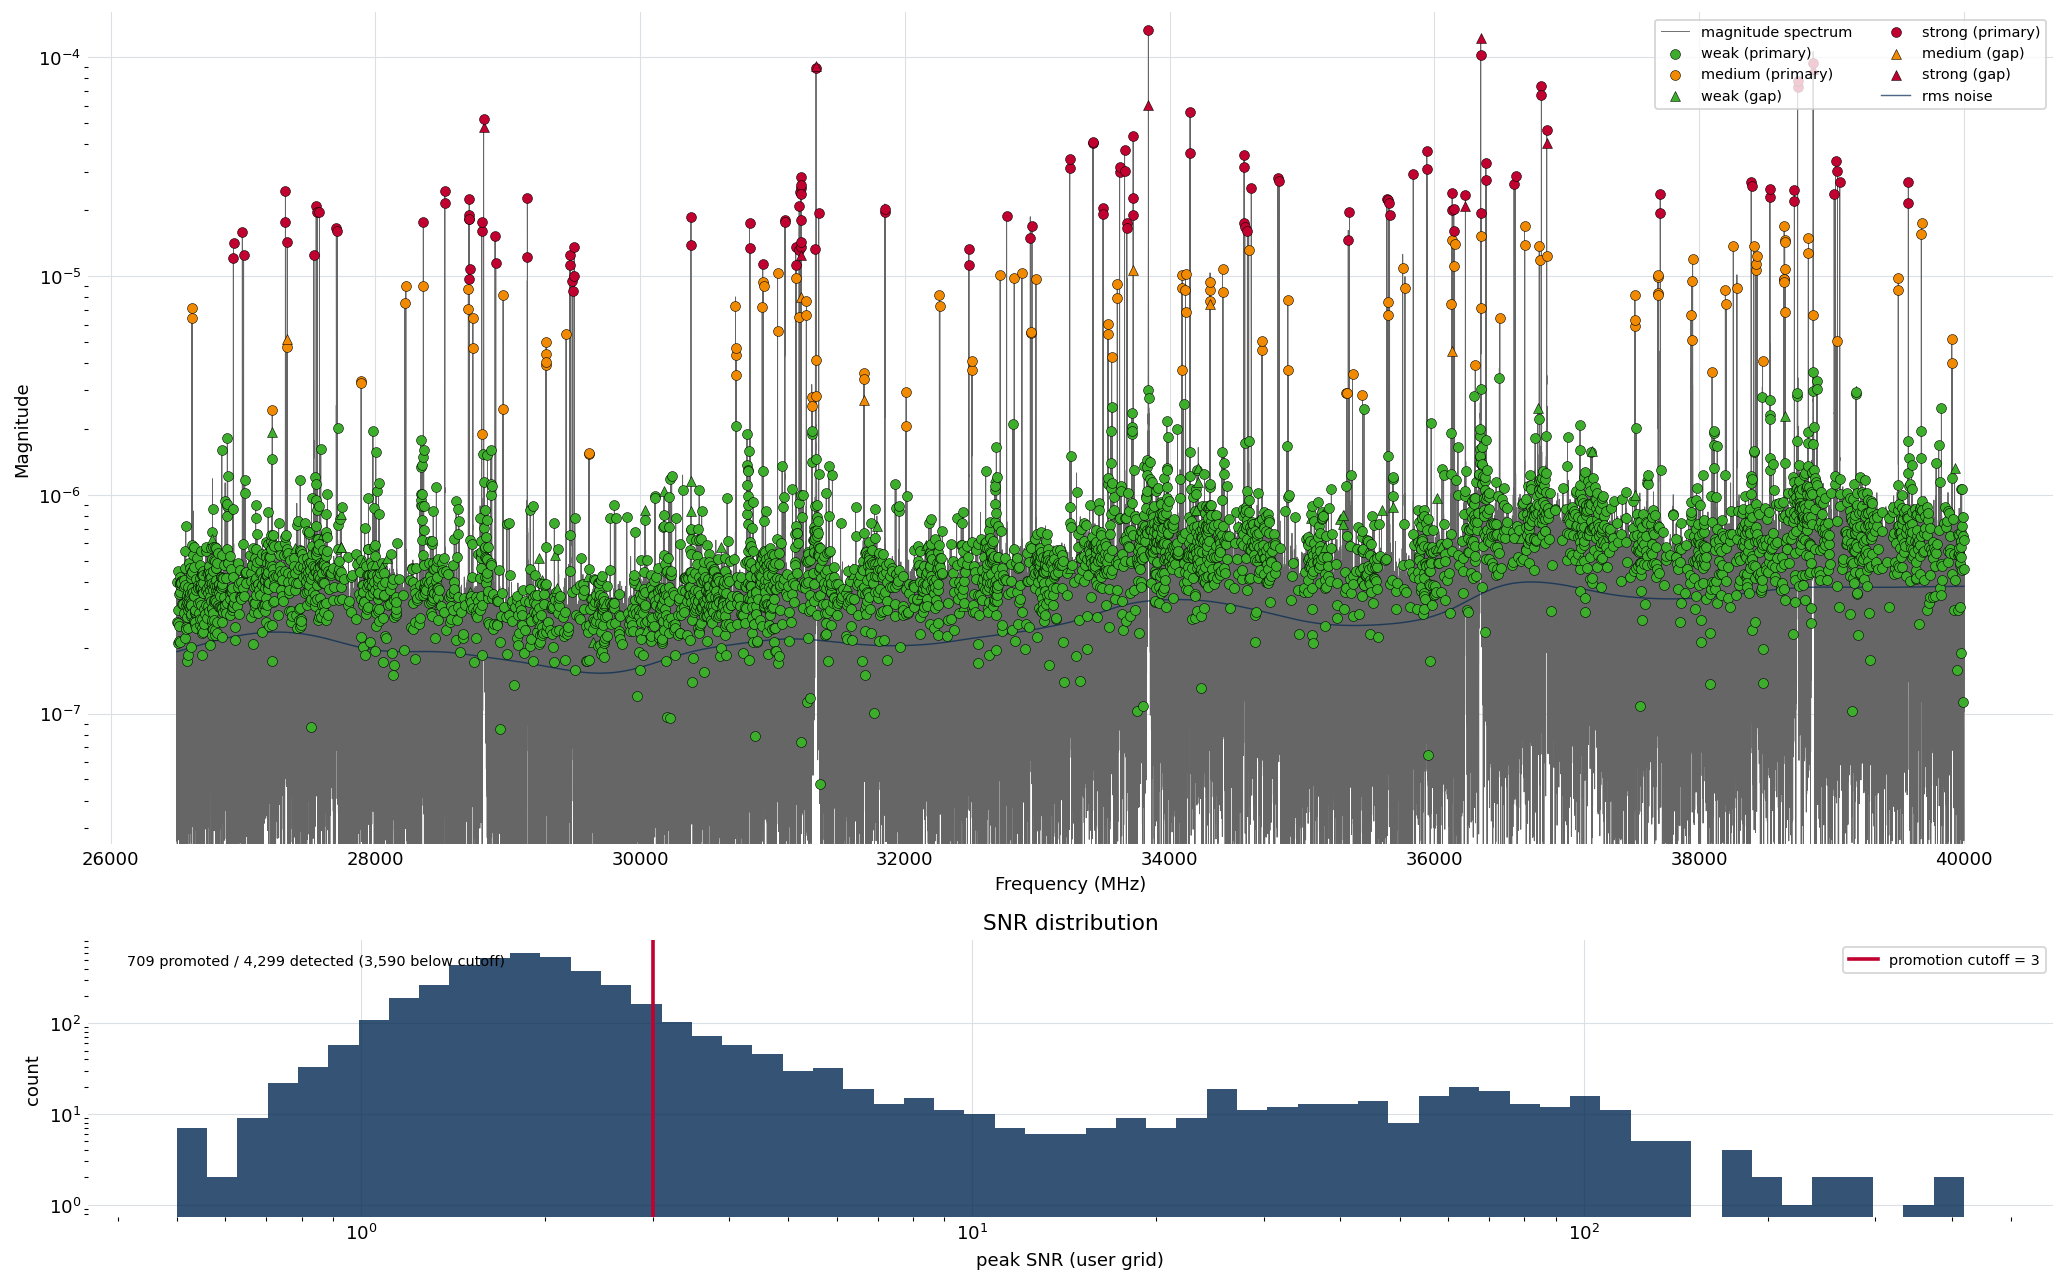
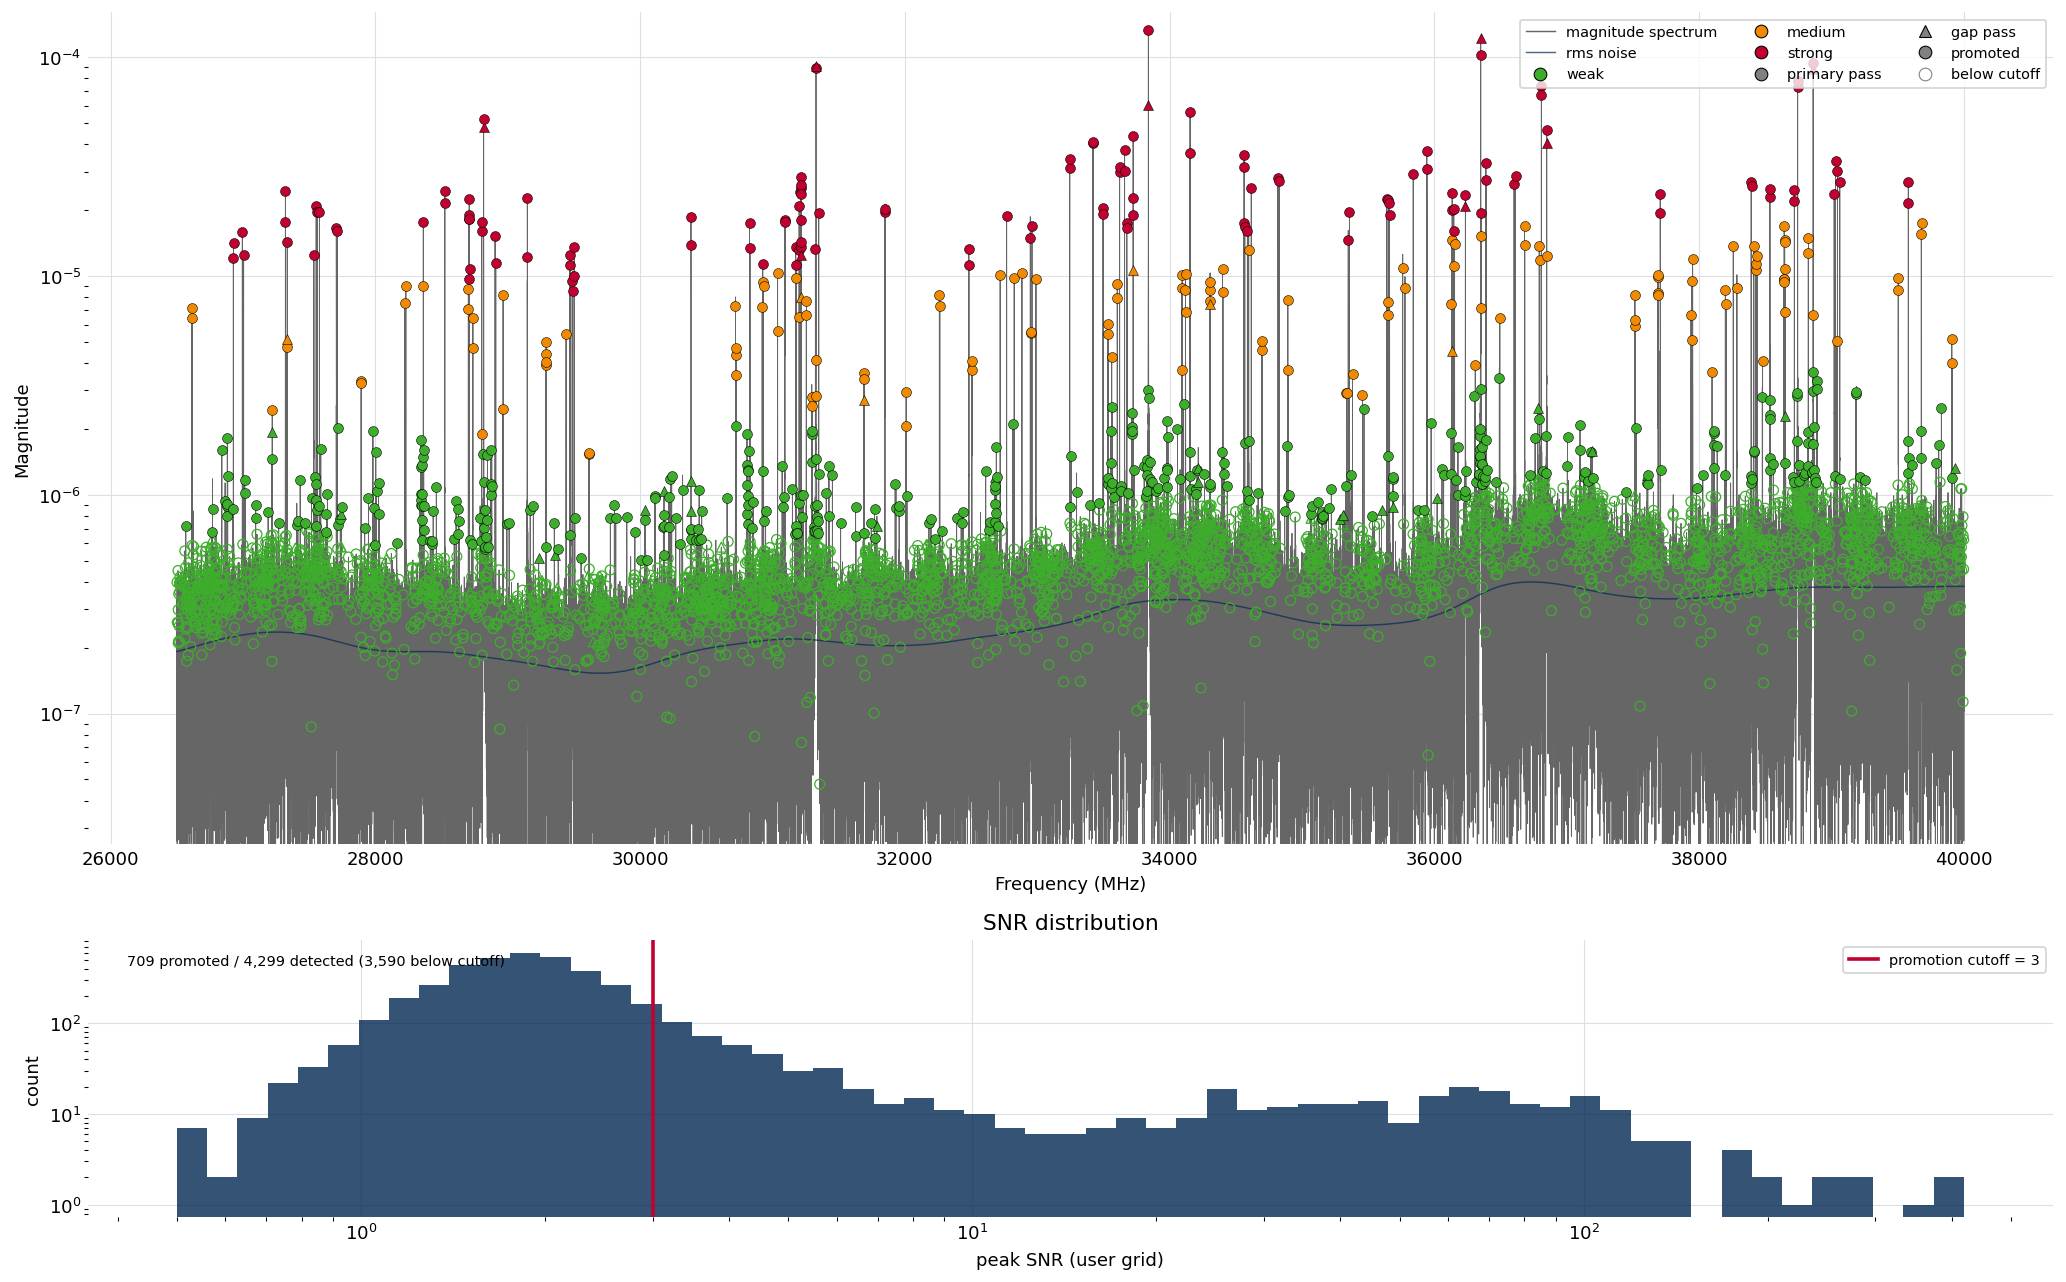
Encode promotion in the peak overlay and drop the dead promoted-only switch
Draw promoted peaks filled and below-cutoff candidates open in the detection
overlay, so the curation split reads off the plot, and remove the unreachable
visualize_peaks_impl promoted_only parameter the new encoding supersedes.

Reword the Stage 3 page to describe the matched filter timelessly rather than as
a replacement for an earlier pass, and to credit the live consumer of the strong
tier (Stage 4 leakage grouping and fixed-contributor attachment) rather than the
unused window-difficulty label. Log the difficulty-label finding for the Stage 4
review and regenerate the figure.

Claude-Session: https://claude.ai/code/session_012itsht2HzvW34wXcnMVEm4

Changed region(s): [[0.062, 0.3744, 0.9603, 0.5304], [0.7435, 0.0, 0.9913, 0.0936]]

diff --git a/src/ftmwpipeline/visualization/peak_visualization.py b/src/ftmwpipeline/visualization/peak_visualization.py
@@ -11,6 +11,7 @@ from typing import List, Optional, Tuple
 
 import matplotlib.pyplot as plt
 import numpy as np
+from matplotlib.lines import Line2D
 
 from ..core.data_structures import Peak, PeakClassification
 from .report_style import (
@@ -129,7 +130,10 @@ def plot_peak_detection(
         zorder=1,
     )
 
-    legended = set()
+    # Encoding: color = SNR tier, marker shape = detection pass, fill =
+    # promotion. A promoted peak is a filled marker; one below the promotion
+    # cutoff is an open marker, so the curation split reads off the overlay
+    # itself.
     for p in peaks:
         cls = (
             p.classification
@@ -139,23 +143,16 @@ def plot_peak_detection(
         color = _CLASS_COLOR.get(cls, "0.5")
         is_gap = p.properties.get("detection_pass") == "gap"
         marker = "^" if is_gap else "o"
-        key = (cls, is_gap)
-        label = None
-        if key not in legended:
-            legended.add(key)
-            cls_name = cls.value if cls is not None else "unclassified"
-            pass_name = "gap" if is_gap else "primary"
-            label = f"{cls_name} ({pass_name})"
+        promoted = bool(p.properties.get("promoted"))
         ax.scatter(
             p.frequency,
             p.intensity,
             s=30,
-            color=color,
             marker=marker,
-            edgecolors="black",
-            linewidths=0.3,
-            zorder=5,
-            label=label,
+            facecolors=color if promoted else "none",
+            edgecolors="black" if promoted else color,
+            linewidths=0.3 if promoted else 0.7,
+            zorder=5 if promoted else 4,
         )
 
     ax.plot(
@@ -183,7 +180,32 @@ def plot_peak_detection(
     resolved_title = resolve_title(title, "Stage 3 Peak Detection")
     if resolved_title:
         ax.set_title(resolved_title)
-    ax.legend(loc="upper right", fontsize=8, ncol=2)
+
+    def _swatch(marker: str, face: str, edge: str, label: str) -> Line2D:
+        return Line2D(
+            [0],
+            [0],
+            marker=marker,
+            linestyle="none",
+            markerfacecolor=face,
+            markeredgecolor=edge,
+            markeredgewidth=0.6,
+            markersize=7,
+            label=label,
+        )
+
+    handles = [
+        Line2D([0], [0], color="0.4", lw=0.8, label="magnitude spectrum"),
+        Line2D([0], [0], color=AGGIE_BLUE, lw=0.8, alpha=0.7, label="rms noise"),
+        _swatch("o", QUAD, "black", "weak"),
+        _swatch("o", POPPY, "black", "medium"),
+        _swatch("o", DOUBLE_DECKER, "black", "strong"),
+        _swatch("o", "0.5", "black", "primary pass"),
+        _swatch("^", "0.5", "black", "gap pass"),
+        _swatch("o", "0.5", "black", "promoted"),
+        _swatch("o", "none", "0.5", "below cutoff"),
+    ]
+    ax.legend(handles=handles, loc="upper right", fontsize=8, ncol=3)
     apply_bare_style(ax)
     if ax_hist is not None:
         _plot_snr_histogram(ax_hist, peaks, promotion_min_snr)

diff --git a/src/ftmwpipeline/_internal/stage3_impl.py b/src/ftmwpipeline/_internal/stage3_impl.py
@@ -828,23 +828,20 @@ def visualize_peaks_impl(
     y_max_factor: Optional[float] = None,
     interactive: bool = True,
     show_snr_histogram: bool = False,
-    promoted_only: bool = False,
 ) -> Any:
     """Overlay the persisted classified peaks on the canonical active FT.
 
     Peaks are scored and stored on the active FT (frequency + re-measured
     amplitude), so the overlay is the active FT with the active-FT authority
     noise -- exactly the surface the peaks were scored on. Requires Stage 3
-    completed. With ``show_snr_histogram`` a second panel shows the active-grid
-    SNR distribution with the promotion cutoff marked (curation view).
-    ``promoted_only`` restricts the overlay to the promoted peaks (the ones that
-    survive into Stage 4+), dropping the sub-threshold candidates.
+    completed. Promoted peaks are drawn filled and sub-threshold candidates
+    open, so the promotion split reads off the overlay. With
+    ``show_snr_histogram`` a second panel shows the active-grid SNR distribution
+    with the promotion cutoff marked (curation view).
     """
     loaded = load_peaks_impl(file_path)
     peaks: List[Peak] = loaded["peaks"]
     promotion_min_snr = loaded.get("promotion_min_snr")
-    if promoted_only:
-        peaks = [p for p in peaks if p.properties.get("promoted")]
 
     stage1 = compute_ft_impl(file_path=file_path)
     trim_range = stage1.get("trim_range")

diff --git a/dev-docs/planning/user-docs/README.md b/dev-docs/planning/user-docs/README.md
@@ -116,12 +116,14 @@ before any code change (per the per-stage gate).
 - **Stale `README.md` status section.** The root `README.md` states Stages 3–5
   are "not yet implemented"; all stages ship. Update during the repository
   cleanup pass.
-- **`visualize_peaks_impl(promoted_only=)` reaches no interface.** The Stage 3
-  impl's `promoted_only` overlay switch is wired into neither the CLI
-  (`peaks show`), `api.visualize_peaks`, nor `Pipeline.visualize_peaks` — a
-  dual-interface gap (an impl capability no surface exposes). Either expose it on
-  all three or drop the impl parameter; pick during the Stage 4/cleanup pass. The
-  Stage 3 page does not claim it.
+- **Window difficulty (HARD/EASY) is computed but unused downstream.** Stage 4's
+  `window_planning.py` sets `w.difficulty` (HARD when a window has a strong line,
+  a fixed contributor, is over-wide, or fails the edge-coherence test), but
+  nothing in Stage 5/6/fitting branches on it — only `window_visualization.py`
+  shades by it and the CLI/logging report counts. The peak **STRONG** tier that
+  partly feeds it is *not* vestigial (it gates fixed-contributor selection and
+  strong-cluster grouping), but the difficulty label itself is a candidate to
+  demote to a pure diagnostic or remove. Assess during the Stage 4 review.
 - **`window_assignment` is a dead Phase-5 placeholder package.** Same pattern as
   the now-removed `peak_detection` stubs (`assign_analysis_windows` /
   `optimize_window_boundaries` / `resolve_overlaps` all raise
@@ -151,9 +153,13 @@ Code changes made while reviewing the docs, with user sign-off:
   / DOUBLE_DECKER, the noise line and SNR histogram → AGGIE_BLUE, the promotion
   cutoff → DOUBLE_DECKER), so the new Stage 3 doc figure matches the committed
   Stage 0/1/2/2b set; the earlier "defer recoloring to Stage 6" note is
-  superseded for this plot. British spellings were swept from the Stage 3
-  modules. Validation: the Stage 3 unit + integration suites (180 tests) and the
-  changed-file black/isort/mypy are green; the figure smoke test passes.
+  superseded for this plot. The detection overlay now encodes promotion in the
+  marker fill — promoted peaks filled, below-cutoff candidates open — so the
+  unreachable `visualize_peaks_impl(promoted_only=)` switch (wired to no
+  interface) was removed in favor of the always-on visual split. British
+  spellings were swept from the Stage 3 modules. Validation: the Stage 3 unit +
+  integration suites and the changed-file black/isort/mypy are green; the figure
+  smoke test passes.
 - **Stage 2b Gaussian/Lorentzian twin code paths fully unified.** The Gaussian
   τ_G calibration had been bolted on as a near-duplicate of the exponential
   twin and promoted to a first-class shape; the parallel code paths had bitten
@@ -486,10 +492,12 @@ peak is scored on the canonical active FT (apex-snapped, de-duplicated); detecti
 runs at a fixed internal floor 2.0 while the user-facing `min_snr` (3.0) is the
 *promotion* cutoff, and all detected peaks are stored. The dead `peak_detection`
 stub package was removed; `Pipeline.detect_peaks` / CLI `cmd_detect_peaks`
-docstrings were de-staled; `plot_peak_detection` is on the brand palette. Two
-follow-ups are logged under *Findings to resolve*: `visualize_peaks_impl`'s
-`promoted_only` reaches no interface, and `window_assignment` is the next dead
-Phase-5 stub package to remove (kept this session to stay scoped).
+docstrings were de-staled; `plot_peak_detection` is on the brand palette and now
+encodes promotion in the marker fill (the unreachable `promoted_only` switch was
+removed). Two follow-ups are logged under *Findings to resolve* for the Stage 4
+review: window difficulty (HARD/EASY) is computed but unused downstream, and
+`window_assignment` is the next dead Phase-5 stub package to remove (both kept
+this session to stay scoped).
 
 **The Stage 4 task — apply the per-stage process (this README, "Per-stage
 process"), in order:**

diff --git a/docs/source/stage3_peaks.rst b/docs/source/stage3_peaks.rst
@@ -74,10 +74,11 @@ recommends Gaussian); without Stage 2b the gap pass falls back to a default
 5 µs basis. Detections within a small exclusion radius of a primary peak are
 dropped as re-finds, so the gap pass contributes only *new* lines.
 
-The matched-filter gap pass replaced an earlier unapodized gap pass and strictly
-dominates it: at a fixed false-positive load it recovers more real lines from
-fewer candidates. The gap pass is on by default and can be switched off
-(``run_gap_pass=False`` / ``--no-gap-pass``).
+The matched filter is the optimal linear detector for a decaying line: it
+concentrates each line's energy that an unweighted transform would spread across
+the skirt, so at a fixed false-positive load the gap pass recovers more real
+lines from fewer candidates. The gap pass is on by default and can be switched
+off (``run_gap_pass=False`` / ``--no-gap-pass``).
 
 The concave-down locator
 ~~~~~~~~~~~~~~~~~~~~~~~~~~
@@ -153,9 +154,12 @@ distribution is anchored at the detection floor with a heavy upper tail in every
 regime: across the reference fixtures, spanning three orders of magnitude in line
 strength, all three tiers stay populated and the fixed boundaries generalize
 where percentile boundaries would brand half of a sparse spectrum's real lines
-"weak." Only the ``medium``/``strong`` boundary has a downstream consumer — Stage
-4 marks a window for special handling when it holds a strong line — and the
-``weak``/``medium`` boundary is curation labeling.
+"weak." Of the three tiers, only ``strong`` drives the later stages: a strong
+line is a leakage source, so :doc:`Stage 4 <stage4_windows>` uses the ``strong``
+tier to anchor its window grouping and to decide which lines are attached as
+fixed contributors to neighboring windows whose grid their skirts reach. The
+``weak``/``medium`` distinction is curation and reporting labeling, carried for
+the analyst rather than consumed by an algorithm.
 
 Detection and promotion are separated, which is the key to detecting
 aggressively without flooding the later stages:
@@ -179,11 +183,12 @@ cleanly.
 
    Stage 3 detection on the example experiment. Top: the classified peaks over
    the canonical active spectrum (gray) and its per-bin noise, colored by SNR
-   tier — green ``weak``, orange ``medium``, red ``strong`` — and marker-styled
-   by pass (circles primary, triangles gap). The log magnitude axis makes the
-   noise floor and the hundreds-of-times stronger lines legible together. Bottom:
-   the curation panel, the signal-to-noise distribution of every detected peak
-   with the promotion cutoff marked, so the threshold can be chosen against the
+   tier — green ``weak``, orange ``medium``, red ``strong`` — marker-styled by
+   pass (circles primary, triangles gap), and filled when promoted or left open
+   when below the promotion cutoff. The log magnitude axis makes the noise floor
+   and the hundreds-of-times stronger lines legible together. Bottom: the
+   curation panel, the signal-to-noise distribution of every detected peak with
+   the promotion cutoff marked, so the threshold can be chosen against the
    visible split between the near-noise hump and the real-line tail before peaks
    move to Stage 4.
 
